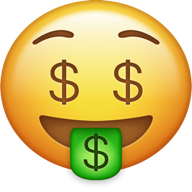
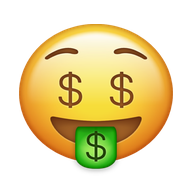
Updates

diff --git a/sw.js b/sw.js
@@ -1,1 +1,1 @@
-if(!self.define){let e,s={};const n=(n,r)=>(n=new URL(n+".js",r).href,s[n]||new Promise(s=>{if("document"in self){const e=document.createElement("script");e.src=n,e.onload=s,document.head.appendChild(e)}else e=n,importScripts(n),s()}).then(()=>{let e=s[n];if(!e)throw new Error(`Module ${n} didn’t register its module`);return e}));self.define=(r,i)=>{const o=e||("document"in self?document.currentScript.src:"")||location.href;if(s[o])return;let l={};const t=e=>n(e,o),u={module:{uri:o},exports:l,require:t};s[o]=Promise.all(r.map(e=>u[e]||t(e))).then(e=>(i(...e),l))}}define(["./workbox-8c29f6e4"],function(e){"use strict";self.skipWaiting(),e.clientsClaim(),e.precacheAndRoute([{url:"index.html",revision:"57dfd4866a97a8b14a7e73e4dc283e68"},{url:"assets/workbox-window.prod.es5-vqzQaGvo.js",revision:null},{url:"assets/vendor-DMpJPX6w.js",revision:null},{url:"assets/rrweb-record-DHqBHKDY.js",revision:null},{url:"assets/rrweb-plugin-console-record-ChatDfDA.js",revision:null},{url:"assets/observers-BO5c89Pr.js",revision:null},{url:"assets/index-OpiSgN3E.css",revision:null},{url:"assets/index-CgXK85dn.js",revision:null},{url:"assets/index-C43nCCGn.js",revision:null},{url:"assets/index-BQQPkdFo.js",revision:null},{url:"apple-touch-icon.png",revision:"4ec8290018c2bcd1fb51b81459f7b649"},{url:"pwa-192x192.png",revision:"a7f4d630da3e6e037f21af5fd0efdd53"},{url:"pwa-512x512.png",revision:"1aecebcb2e9566ba709218bab8367a10"},{url:"manifest.webmanifest",revision:"9695afb59a98e59e7ae4f0ec528769ad"}],{}),e.cleanupOutdatedCaches(),e.registerRoute(new e.NavigationRoute(e.createHandlerBoundToURL("index.html")))});
+if(!self.define){let e,s={};const n=(n,r)=>(n=new URL(n+".js",r).href,s[n]||new Promise(s=>{if("document"in self){const e=document.createElement("script");e.src=n,e.onload=s,document.head.appendChild(e)}else e=n,importScripts(n),s()}).then(()=>{let e=s[n];if(!e)throw new Error(`Module ${n} didn’t register its module`);return e}));self.define=(r,i)=>{const o=e||("document"in self?document.currentScript.src:"")||location.href;if(s[o])return;let l={};const t=e=>n(e,o),u={module:{uri:o},exports:l,require:t};s[o]=Promise.all(r.map(e=>u[e]||t(e))).then(e=>(i(...e),l))}}define(["./workbox-8c29f6e4"],function(e){"use strict";self.skipWaiting(),e.clientsClaim(),e.precacheAndRoute([{url:"index.html",revision:"57dfd4866a97a8b14a7e73e4dc283e68"},{url:"assets/workbox-window.prod.es5-vqzQaGvo.js",revision:null},{url:"assets/vendor-DMpJPX6w.js",revision:null},{url:"assets/rrweb-record-DHqBHKDY.js",revision:null},{url:"assets/rrweb-plugin-console-record-ChatDfDA.js",revision:null},{url:"assets/observers-BO5c89Pr.js",revision:null},{url:"assets/index-OpiSgN3E.css",revision:null},{url:"assets/index-CgXK85dn.js",revision:null},{url:"assets/index-C43nCCGn.js",revision:null},{url:"assets/index-BQQPkdFo.js",revision:null},{url:"apple-touch-icon.png",revision:"4ec8290018c2bcd1fb51b81459f7b649"},{url:"pwa-192x192.png",revision:"46320848de40b7a4fb9b031a0de8d34d"},{url:"pwa-512x512.png",revision:"4cd2ededcf07331445aeede87994cccc"},{url:"manifest.webmanifest",revision:"9695afb59a98e59e7ae4f0ec528769ad"}],{}),e.cleanupOutdatedCaches(),e.registerRoute(new e.NavigationRoute(e.createHandlerBoundToURL("index.html")))});
